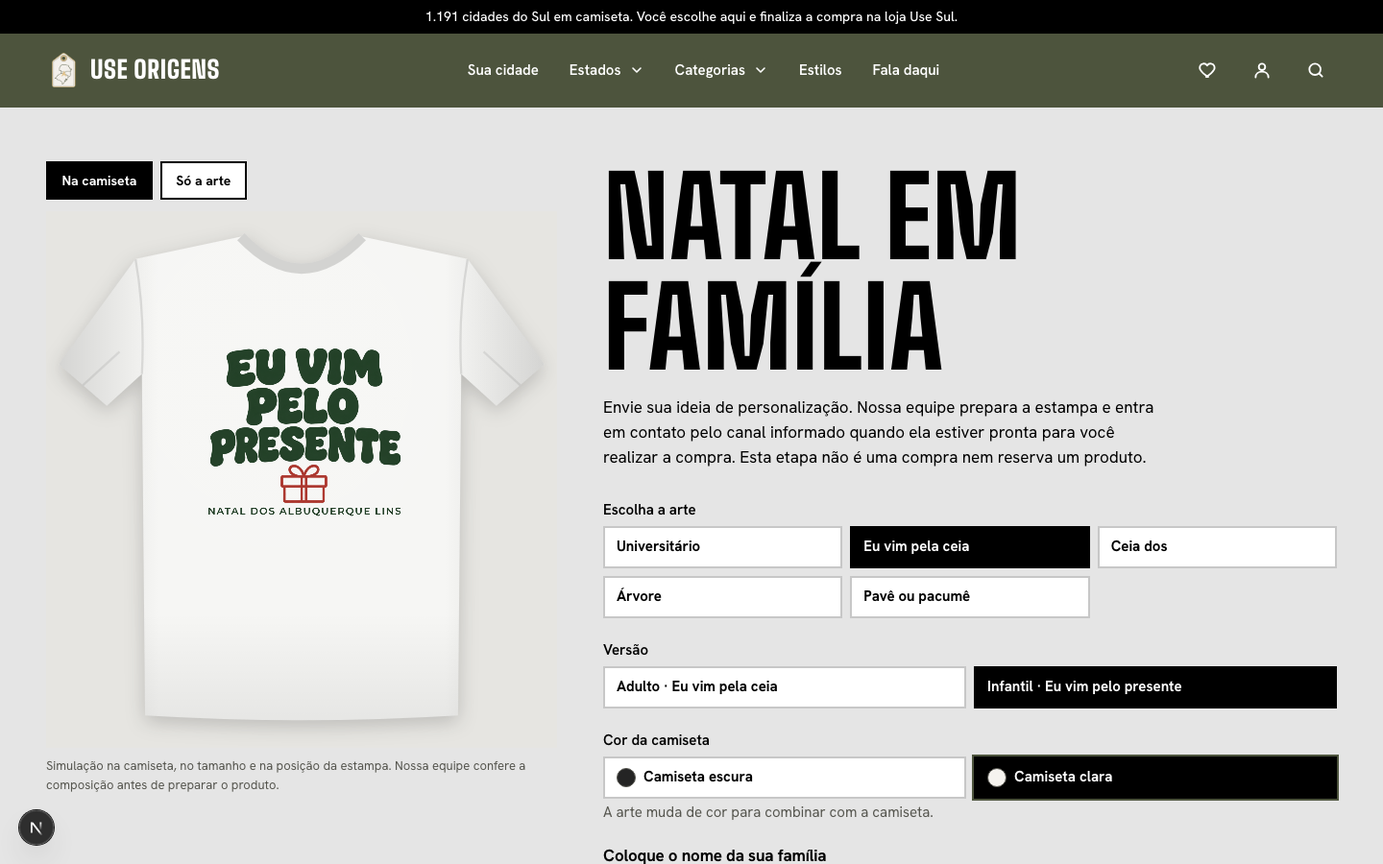
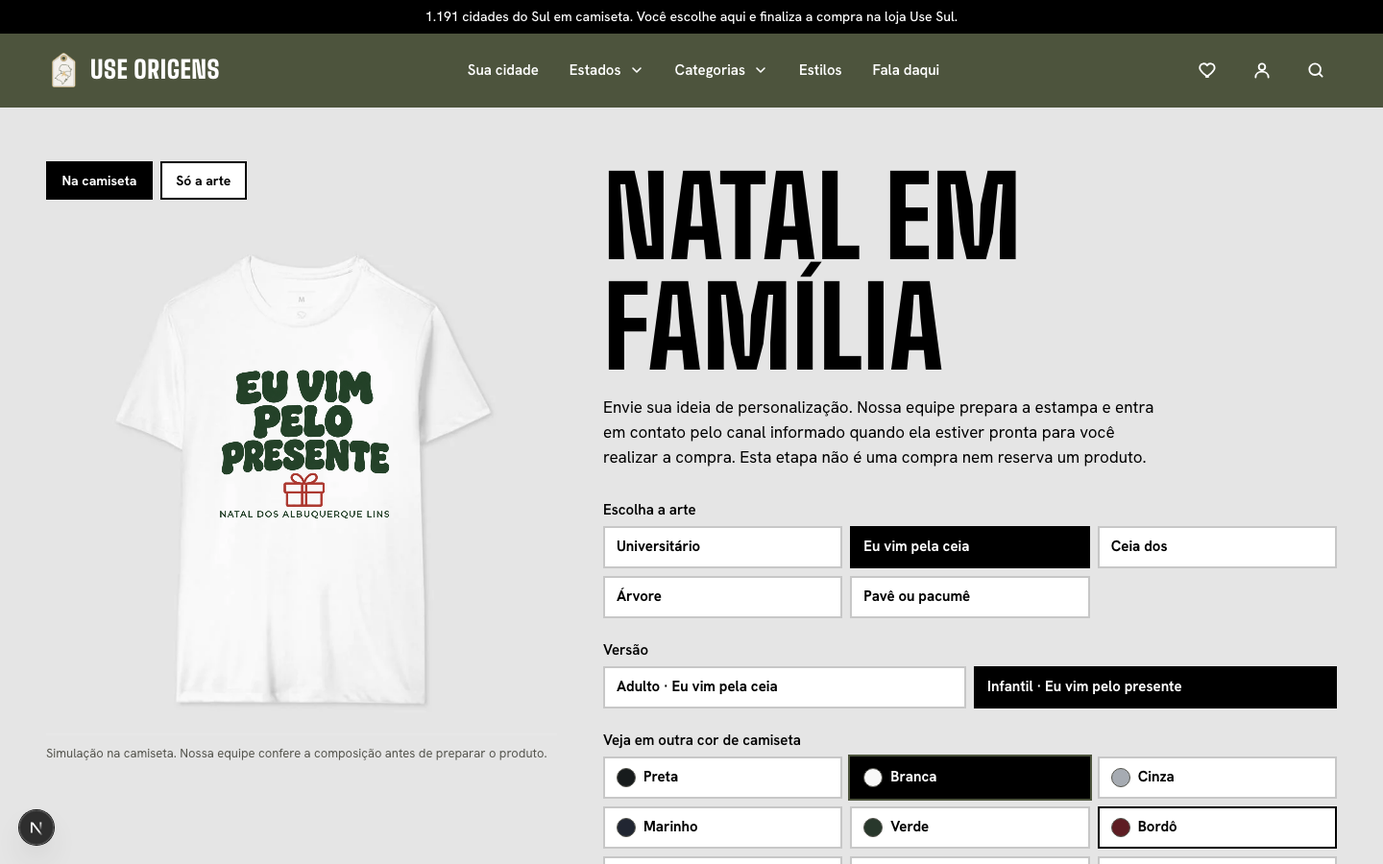
feat(personalizacao): prévia sobre foto de camiseta e cor só para visualizar
- Prévia "Na camiseta" usa fotos de camiseta lisa (9 cores, enquadramento
  dos mockups da INK), com a área de estampa medida num mockup da INK.
- "Veja em outra cor de camiseta": a cor é só para visualizar; branca e
  cinza mostram a base de camiseta clara (arte escura), as demais a outra.
- A solicitação registra só a arte e a versão, sem a cor.

diff --git a/src/components/customization/CustomizerForm.tsx b/src/components/customization/CustomizerForm.tsx
@@ -6,7 +6,8 @@ import { CONTACT_CONFIRM_TEXT, CONTACT_KEYS, CONTACT_NOTICE, validateContact } f
 import type { Customizer } from "@/lib/site-config/schema";
 import type { SubmitResult } from "@/app/[region]/personalizar/actions";
 import { artworkFields, composeArtwork, fieldEdits, initialArtworkEdits, initialFieldValues, validateArtworkInput, type ArtworkEdit } from "@/lib/customization/artwork";
-import { choiceLabel, choiceOf, studioTemplateIds, type ArtPick } from "@/lib/customization/studio-arts";
+import { choiceLabel, choiceOf, offersChoice } from "@/lib/customization/studio-arts";
+import { SHIRT_COLORS, shirtColor } from "@/lib/customization/shirts";
 import type { PrintProject } from "@/lib/print-studio/model";
 import { ArtworkEditor, ArtworkFields } from "./ArtworkEditor";
 import { ArtworkPreview, type PreviewView } from "./ArtworkPreview";
@@ -27,7 +28,6 @@ function liveSummary(model: Customizer, v: Values): SummaryLine[] {
   return out;
 }
 
-const SHIRT = { dark: "#242424", light: "#f5f3ef" };
 type ChoiceOption = { key: number; label: string; swatch?: string };
 /** Radio cards: the picked one is filled. Used for the art, its version and the shirt colour. */
 function ChoiceGroup({ legend, name, options, value, onChange, columns = "grid-cols-2 sm:grid-cols-3", help }: { legend: string; name: string; options: ChoiceOption[]; value: number; onChange: (key: number) => void; columns?: string; help?: string }) {
@@ -68,8 +68,10 @@ export function CustomizerForm({
   const uid = useId();
   const arts = useMemo(() => (firstBase && model.studioArts?.length ? model.studioArts : []), [firstBase, model.studioArts]);
   const studio = arts.length > 0;
-  const [pick, setPick] = useState<ArtPick>({ art: 0, version: 0, light: false });
-  const choice = useMemo(() => (studio ? choiceOf(arts, pick) : null), [studio, arts, pick]);
+  const [pick, setPick] = useState({ art: 0, version: 0 });
+  // The shirt colour is only for viewing; it decides which version of the art is drawn (light shirts get the "camiseta clara" base).
+  const [shirt, setShirt] = useState(SHIRT_COLORS[0].id);
+  const choice = useMemo(() => (studio ? choiceOf(arts, { ...pick, light: shirtColor(shirt).light }) : null), [studio, arts, pick, shirt]);
   const templateId = choice?.templateId;
   const [bases, setBases] = useState<Record<string, PrintProject>>(() => (firstBase && arts[0] ? { [arts[0].versions[0].templateId]: firstBase } : {}));
   const [baseError, setBaseError] = useState("");
@@ -94,14 +96,15 @@ export function CustomizerForm({
   const fieldMode = Boolean(firstBase && studio && artworkFields(firstBase).length);
   const artworkInput = fieldMode ? { fields: fieldValues } : { layers: artworkEdits };
   const artworkProject = useMemo(() => artworkBase ? composeArtwork(artworkBase, fieldMode ? fieldEdits(artworkBase, fieldValues) : artworkEdits) : null, [artworkBase, fieldMode, fieldValues, artworkEdits]);
-  const choose = (next: ArtPick) => { setPick(next); setBaseError(""); };
+  const choose = (next: { art: number; version: number }) => { setPick(next); setBaseError(""); };
+  const chooseShirt = (id: string) => { setShirt(id); setBaseError(""); };
   const [previewView, setPreviewView] = useState<PreviewView>("shirt");
   // Art, version and shirt colour. On a phone they sit right under the preview, so each tap shows its effect; on a wide screen, in the form.
   const pickers = (where: string) => choice && (
     <>
       {arts.length > 1 && <ChoiceGroup legend="Escolha a arte" name={`${uid}-${where}-arte`} options={arts.map((a, i) => ({ key: i, label: a.label }))} value={pick.art} onChange={(art) => choose({ ...pick, art, version: 0 })} />}
       {choice.art.versions.length > 1 && <ChoiceGroup legend="Versão" name={`${uid}-${where}-versao`} options={choice.art.versions.map((v, i) => ({ key: i, label: v.label ?? `Versão ${i + 1}` }))} value={pick.version} onChange={(version) => choose({ ...pick, version })} columns="grid-cols-1 sm:grid-cols-2" />}
-      {choice.version.lightTemplateId && <ChoiceGroup legend="Cor da camiseta" name={`${uid}-${where}-camiseta`} options={[{ key: 0, label: "Camiseta escura", swatch: SHIRT.dark }, { key: 1, label: "Camiseta clara", swatch: SHIRT.light }]} value={pick.light ? 1 : 0} onChange={(key) => choose({ ...pick, light: key === 1 })} columns="grid-cols-2" help="A arte muda de cor para combinar com a camiseta." />}
+      <ChoiceGroup legend="Veja em outra cor de camiseta" name={`${uid}-${where}-camiseta`} options={SHIRT_COLORS.map((c, i) => ({ key: i, label: c.label, swatch: c.swatch }))} value={SHIRT_COLORS.findIndex((c) => c.id === shirt)} onChange={(i) => chooseShirt(SHIRT_COLORS[i].id)} columns="grid-cols-3" help={choice.version.lightTemplateId ? "Só para visualizar: a cor você escolhe na compra. Nas camisetas branca e cinza a estampa vem na versão escura; nas demais, na versão clara." : "Só para visualizar: a cor você escolhe na compra."} />
     </>
   );
   const [contact, setContact] = useState<ContactValues>({ name: "", whatsapp: "", email: "", confirm: false });
@@ -115,7 +118,7 @@ export function CustomizerForm({
   const g = studio ? undefined : model.lineGroup;
   const summary = useMemo(() => {
     if (!studio || !choice) return liveSummary(model, values);
-    const picked = studioTemplateIds(model).length > 1 ? [{ label: "Arte escolhida", value: choiceLabel(choice) }] : [];
+    const picked = offersChoice(model) ? [{ label: "Arte escolhida", value: choiceLabel(choice) }] : [];
     if (!artworkBase) return picked;
     const checked = validateArtworkInput(artworkBase, choice.templateId, fieldMode ? { fields: fieldValues } : { layers: artworkEdits });
     if (checked.ok && checked.artwork.fields) return [...picked, ...checked.artwork.fields.map((f) => ({ label: f.label, value: f.value })), ...checked.artwork.layers.map((l) => ({ label: "Texto na arte", value: l.text }))];
@@ -195,8 +198,8 @@ export function CustomizerForm({
       <div className="grid gap-8 lg:grid-cols-12 lg:gap-12">
         <div className="lg:col-span-5">
           <div className="lg:sticky lg:top-24">
-            {studio ? (artworkProject ? <ArtworkPreview key={templateId} project={artworkProject} onReady={setArtworkReady} view={previewView} onViewChange={setPreviewView} shirt={choice?.version.lightTemplateId ? (choice.light ? SHIRT.light : SHIRT.dark) : undefined} /> : (
-              <div className={`mt-[52px] flex w-full items-center justify-center bg-[#242424] p-6 text-center text-white ${previewView === "shirt" ? "aspect-[80/84]" : "aspect-[4270/4900]"}`} role="status" aria-live="polite">{baseError || "Carregando a arte…"}</div>
+            {studio ? (artworkProject ? <ArtworkPreview key={templateId} project={artworkProject} onReady={setArtworkReady} view={previewView} onViewChange={setPreviewView} shirt={shirt} /> : (
+              <div className={`mt-[52px] flex w-full items-center justify-center bg-[#242424] p-6 text-center text-white ${previewView === "shirt" ? "aspect-[800/820]" : "aspect-[4270/4900]"}`} role="status" aria-live="polite">{baseError || "Carregando a arte…"}</div>
             )) : <>
             {/* eslint-disable-next-line @next/next/no-img-element -- a CMS upload served pre-sized from the media origin */}
             <img

diff --git a/src/components/customization/ArtworkPreview.tsx b/src/components/customization/ArtworkPreview.tsx
@@ -1,49 +1,16 @@
 "use client";
 
-import { useEffect, useId, useRef, useState } from "react";
+import { useEffect, useRef, useState } from "react";
 import type { PrintProject } from "@/lib/print-studio/model";
 import { loadResources, paintProject } from "@/lib/print-studio/renderer";
+import { SHIRT_COLORS, shirtColor, shirtPhoto } from "@/lib/customization/shirts";
 import styles from "./ArtworkEditor.module.css";
 
 export type PreviewView = "shirt" | "art";
-const SHIRT_FILL: Record<string, string> = { "#242424": "#1c1c1e", "#f5f3ef": "#f6f6f4", "#707070": "#8a8a8a" };
 
 /**
- * A flat front view of a shirt (size M), drawn in centimetres: the 36 × 41 cm print area of INK sits 11 cm below the front of the collar,
- * so the art keeps its real size and place (a chest logo stays on the chest). The art canvas is laid over it by the stylesheet.
- */
-function Shirt({ fill }: { fill: string }) {
-  const id = useId().replace(/:/g, "");
-  const body = "M30.5 4 L14 7.5 L2 24 L9.5 30.5 L15 25.5 L15.5 79 Q40 80.5 64.5 79 L65 25.5 L70.5 30.5 L78 24 L66 7.5 L49.5 4 Q40 14 30.5 4 Z";
-  return (
-    <svg className={styles.shirt} viewBox="0 0 80 84" aria-hidden="true" focusable="false">
-      <defs>
-        <clipPath id={`${id}-clip`}><path d={body} /></clipPath>
-        <linearGradient id={`${id}-sides`} x1="0" x2="1" y1="0" y2="0">
-          <stop offset="0" stopColor="#000" stopOpacity=".16" /><stop offset=".22" stopColor="#000" stopOpacity="0" />
-          <stop offset=".78" stopColor="#000" stopOpacity="0" /><stop offset="1" stopColor="#000" stopOpacity=".16" />
-        </linearGradient>
-        <radialGradient id={`${id}-light`} cx=".45" cy=".3" r=".6"><stop offset="0" stopColor="#fff" stopOpacity=".1" /><stop offset="1" stopColor="#fff" stopOpacity="0" /></radialGradient>
-        <linearGradient id={`${id}-hem`} x1="0" x2="0" y1="0" y2="1"><stop offset=".75" stopColor="#000" stopOpacity="0" /><stop offset="1" stopColor="#000" stopOpacity=".08" /></linearGradient>
-      </defs>
-      <path d={body} fill={fill} />
-      <g clipPath={`url(#${id}-clip)`}>
-        <rect width="80" height="84" fill={`url(#${id}-sides)`} />
-        <rect width="80" height="84" fill={`url(#${id}-light)`} />
-        <rect width="80" height="84" fill={`url(#${id}-hem)`} />
-        <path d="M30.5 4 Q40 6.5 49.5 4 Q40 14 30.5 4 Z" fill="#000" fillOpacity=".22" />
-        <path d="M14 7.5 Q15.5 16 15 25.5 M66 7.5 Q64.5 16 65 25.5" fill="none" stroke="#000" strokeOpacity=".1" strokeWidth=".35" />
-        <path d="M5.5 27.5 L11.5 22 M74.5 27.5 L68.5 22" fill="none" stroke="#000" strokeOpacity=".08" strokeWidth=".35" />
-      </g>
-      <path d="M30.5 4 Q40 14 49.5 4" fill="none" stroke={fill} strokeWidth="1.6" />
-      <path d="M30.5 4 Q40 14 49.5 4" fill="none" stroke="#000" strokeOpacity=".14" strokeWidth="1.6" />
-    </svg>
-  );
-}
-
-/**
- * The art as the customer will get it: on a shirt by default, or alone and larger. `shirt`: the shirt colour the customer picked; it sets the
- * colour and replaces the viewing choice. `view`/`onViewChange` let the page keep the view when the preview is remounted for another art.
+ * The art as the customer will get it: on a shirt photo by default, or alone and larger. `shirt`: the shirt colour (`SHIRT_COLORS` id) the page
+ * picked; without it, the preview offers its own colour choice, starting from one that contrasts with the art. `view`/`onViewChange` let the page keep the view when the preview is remounted for another art.
  */
 export function ArtworkPreview({ project, onReady, shirt, view: controlled, onViewChange, initialView = "shirt" }: {
   project: PrintProject;
@@ -61,12 +28,12 @@ export function ArtworkPreview({ project, onReady, shirt, view: controlled, onVi
   const setView = (next: PreviewView) => { setOwn(next); onViewChange?.(next); };
   const [viewing, setBackground] = useState(() => {
     const text = project.layers.find((l) => l.kind === "text" && l.visible);
-    if (text?.kind !== "text") return "#242424";
+    if (text?.kind !== "text") return "preta";
     const [r, g, b] = [1, 3, 5].map((i) => parseInt(text.color.slice(i, i + 2), 16));
-    return 0.2126 * r + 0.7152 * g + 0.0722 * b < 140 ? "#f5f3ef" : "#242424";
+    return 0.2126 * r + 0.7152 * g + 0.0722 * b < 140 ? "branca" : "preta";
   });
 
-  const background = shirt ?? viewing;
+  const color = shirtColor(shirt ?? viewing);
 
   useEffect(() => {
     let active = true;
@@ -92,16 +59,17 @@ export function ArtworkPreview({ project, onReady, shirt, view: controlled, onVi
         <button type="button" aria-pressed={onShirt} onClick={() => setView("shirt")}>Na camiseta</button>
         <button type="button" aria-pressed={!onShirt} onClick={() => setView("art")}>Só a arte</button>
       </div>
-      <div className={onShirt ? styles.stage : styles.canvasWrap} style={onShirt ? undefined : { backgroundColor: background }} aria-busy={painted !== project && !error}>
-        {onShirt && <Shirt fill={SHIRT_FILL[background] ?? background} />}
+      <div className={onShirt ? styles.stage : styles.canvasWrap} style={onShirt ? undefined : { backgroundColor: color.swatch }} aria-busy={painted !== project && !error}>
+        {/* eslint-disable-next-line @next/next/no-img-element -- a small static photo laid under the canvas, not a content image */}
+        {onShirt && <img className={styles.shirt} src={shirtPhoto(color.id)} alt="" width={800} height={820} />}
         <canvas ref={canvas} className={onShirt ? styles.printArea : styles.canvas} role="img" aria-label="Composição com os textos, fontes e cores escolhidos. O resumo da personalização apresenta os mesmos textos." />
       </div>
       {error && <p className={styles.error} role="alert">{error}</p>}
-      <figcaption className={styles.caption}>{onShirt ? "Simulação na camiseta, no tamanho e na posição da estampa. " : ""}Nossa equipe confere a composição antes de preparar o produto.</figcaption>
+      <figcaption className={styles.caption}>{onShirt ? "Simulação na camiseta. " : ""}Nossa equipe confere a composição antes de preparar o produto.</figcaption>
       {!shirt && <>
-        <label className={styles.background}>{onShirt ? "Cor da camiseta na prévia" : "Fundo para visualizar"}
-          <select value={background} onChange={(e) => setBackground(e.target.value)}>
-            <option value="#242424">Escuro</option><option value="#f5f3ef">Claro</option><option value="#707070">Cinza</option>
+        <label className={styles.background}>Cor da camiseta na prévia
+          <select value={color.id} onChange={(e) => setBackground(e.target.value)}>
+            {SHIRT_COLORS.map((c) => <option key={c.id} value={c.id}>{c.label}</option>)}
           </select>
         </label>
         <p className={styles.caption}>A cor serve apenas para visualizar a arte.</p>

diff --git a/src/app/admin/(panel)/personalizacao/[id]/page.tsx b/src/app/admin/(panel)/personalizacao/[id]/page.tsx
@@ -122,7 +122,7 @@ export default async function CustomizerEditor({ params, searchParams }: { param
             <fieldset className="space-y-4">
               <legend className="a-h2 mb-3">Editor de arte para o cliente</legend>
               <StudioArtsEditor initial={model.studioArts ?? []} templates={templates.map((t) => ({ id: t.id, name: `${t.name} · ${when(t.createdAt)}` }))} max={MAX_STUDIO_ARTS} maxVersions={MAX_ART_VERSIONS} disabled={templateError} />
-              <p className="a-muted text-[0.875rem]">Sem artes, a página usa o formulário de textos. Com mais de uma arte, o cliente escolhe qual quer personalizar; com mais de uma versão (por exemplo, Adulto e Infantil), escolhe a versão; e, quando a versão tem a base para camiseta clara, escolhe a cor da camiseta. A primeira arte aparece ao abrir a página. Todas as bases precisam pedir os mesmos campos (por exemplo, só o sobrenome). A solicitação registra a arte escolhida.</p>
+              <p className="a-muted text-[0.875rem]">Sem artes, a página usa o formulário de textos. Com mais de uma arte, o cliente escolhe qual quer personalizar; com mais de uma versão (por exemplo, Adulto e Infantil), escolhe a versão. A prévia mostra a arte numa camiseta, e o cliente pode trocar a cor da camiseta só para ver como fica: nas camisetas branca e cinza aparece a base “branca e cinza” (arte escura), nas demais a outra base. A primeira arte aparece ao abrir a página, numa camiseta preta. Todas as bases precisam pedir os mesmos campos (por exemplo, só o sobrenome). A solicitação registra a arte escolhida.</p>
               <p className="a-muted text-[0.875rem]">Numa base sem campo, o cliente edita os textos visíveis, a fonte e a cor, com prévia ao vivo. A posição dos elementos e as logos seguem a base. Os campos e o grupo de linhas abaixo ficam substituídos pelos textos da arte.</p>
               <p className="a-muted text-[0.875rem]">Prepare a composição em <Link className="a-link" href="/admin/estampas">Estúdio de estampas</Link> e use <strong>Salvar como modelo</strong>. As fontes incorporadas à base e as fontes padrão ficam disponíveis para o cliente. Salve o rascunho para testar na prévia ao lado; publique para disponibilizar na loja.</p>
               {templateError && <p className="a-flash err">Não foi possível carregar as bases. Recarregue a página para trocar as artes; as atuais serão preservadas.</p>}

diff --git a/src/lib/customization/studio-arts.ts b/src/lib/customization/studio-arts.ts
@@ -1,6 +1,6 @@
 import type { Customizer, StudioArt, StudioArtVersion } from "../site-config/schema";
 
-/** What the customer picked on a studio-based page: an art, one of its versions and, when the version has both, the shirt colour. */
+/** What the customer picked on a studio-based page: an art, one of its versions and whether the previewed shirt is light (it then gets the light-shirt base). */
 export type ArtPick = { art: number; version: number; light: boolean };
 export type ArtChoice = { art: StudioArt; version: StudioArtVersion; light: boolean; templateId: string };
 
@@ -26,11 +26,10 @@ export function choiceOfTemplate(model: Pick<Customizer, "studioArts">, template
   return null;
 }
 
-/** "Eu vim pela ceia · Infantil · Camiseta clara": only the choices the page actually offered. */
+/** True when the page lets the customer pick between arts or versions (the shirt colour is only for viewing and is not part of the choice). */
+export const offersChoice = (model: Pick<Customizer, "studioArts">): boolean => (model.studioArts ?? []).flatMap((a) => a.versions).length > 1;
+
+/** "Eu vim pela ceia · Infantil": the art and, when it has several, the version. The shirt colour is left out: each colour gets its matching art. */
 export function choiceLabel(choice: ArtChoice): string {
-  return [
-    choice.art.label,
-    choice.art.versions.length > 1 ? choice.version.label : undefined,
-    choice.version.lightTemplateId ? (choice.light ? "Camiseta clara" : "Camiseta escura") : undefined,
-  ].filter(Boolean).join(" · ");
+  return [choice.art.label, choice.art.versions.length > 1 ? choice.version.label : undefined].filter(Boolean).join(" · ");
 }

diff --git a/tests/unit/customization-artwork-action.test.ts b/tests/unit/customization-artwork-action.test.ts
@@ -59,7 +59,7 @@ describe("envio público da arte para a fila existente", () => {
     state.model = { ...single, studioArts: [{ label: "Feliz tudo", versions: [{ templateId, lightTemplateId: lightId }] }, { label: "Outra", versions: [{ label: "Adulto", templateId: "1792427199787-94f180a0-474a-4a75-9fae-1fbdd72f2aaa" }, { label: "Infantil", templateId: "1792427199788-94f180a0-474a-4a75-9fae-1fbdd72f2aab" }] }] };
     try {
       const result = await submitCustomizationAction({ region: "sul", slug: "sua-arte", idempotencyKey: "light-shirt-artwork-key", contact, artwork: { templateId: lightId, layers: initialArtworkEdits(state.base!) } });
-      expect(result).toMatchObject({ ok: true, summary: expect.arrayContaining([{ label: "Arte escolhida", value: "Feliz tudo · Camiseta clara" }, { label: "Base da arte", value: "Feliz tudo · camiseta clara" }]) });
+      expect(result).toMatchObject({ ok: true, summary: expect.arrayContaining([{ label: "Arte escolhida", value: "Feliz tudo" }, { label: "Base da arte", value: "Feliz tudo · camiseta clara" }]) });
       const kids = await submitCustomizationAction({ region: "sul", slug: "sua-arte", idempotencyKey: "kids-version-artwork-key", contact, artwork: { templateId: "1792427199788-94f180a0-474a-4a75-9fae-1fbdd72f2aab", layers: initialArtworkEdits(state.base!) } });
       expect(kids).toMatchObject({ ok: true, summary: expect.arrayContaining([{ label: "Arte escolhida", value: "Outra · Infantil" }]) });
       // Only the model's own bases are served to the page, never another saved template.

diff --git a/src/app/[region]/personalizar/actions.ts b/src/app/[region]/personalizar/actions.ts
@@ -10,7 +10,7 @@ import { publishedFor } from "@/lib/pages/public";
 import { liveCustomizer } from "@/lib/site-config/pages";
 import { validateArtworkInput } from "@/lib/customization/artwork";
 import { loadArtworkBase } from "@/lib/customization/artwork-server";
-import { choiceLabel, choiceOfTemplate, studioTemplateIds } from "@/lib/customization/studio-arts";
+import { choiceLabel, choiceOfTemplate, offersChoice, studioTemplateIds } from "@/lib/customization/studio-arts";
 import type { PrintProject } from "@/lib/print-studio/model";
 
 export type SubmitResult =
@@ -45,7 +45,7 @@ export async function submitCustomizationAction(input: { region: string; slug: s
     if (!base) return fail("Esta base não está disponível agora. Tente novamente mais tarde.");
     const artwork = validateArtworkInput(base, choice.templateId, input.artwork);
     if (!artwork.ok) return fail("Confira os textos, fontes e cores da arte.", artwork.errors);
-    checked.values.artwork = { ...artwork.artwork, ...(studioTemplateIds(model).length > 1 ? { choice: choiceLabel(choice) } : {}) };
+    checked.values.artwork = { ...artwork.artwork, ...(offersChoice(model) ? { choice: choiceLabel(choice) } : {}) };
   } else if (input.artwork) return fail("Este modelo não permite edição da arte. Recarregue a página.");
   const token = tokenFor(secret, found.region, input.idempotencyKey);
   const replaces = typeof input.replaces === "string" && TOKEN_SHAPE.test(input.replaces) ? hashToken(input.replaces) : undefined;

diff --git a/src/components/admin/StudioArtsEditor.tsx b/src/components/admin/StudioArtsEditor.tsx
@@ -59,8 +59,8 @@ export function StudioArtsEditor({ initial, templates, max, maxVersions, disable
                   {r.versions.length > 1 && <button type="button" className="a-btn sm danger" onClick={() => setArt(i, { versions: r.versions.filter((_, k) => k !== j) })} disabled={disabled}>Remover versão</button>}
                 </div>
                 <div className="mt-2 grid gap-3 md:grid-cols-2">
-                  <div><label className="a-label" htmlFor={`art-${i}-v-${j}-dark`}>Base · camiseta escura</label>{select(`art-${i}-v-${j}-dark`, v.templateId, (value) => setVersion(i, j, { templateId: value }), "Escolha a base")}</div>
-                  <div><label className="a-label" htmlFor={`art-${i}-v-${j}-light`}>Base · camiseta clara (opcional)</label>{select(`art-${i}-v-${j}-light`, v.lightTemplateId, (value) => setVersion(i, j, { lightTemplateId: value }), "Sem versão clara")}</div>
+                  <div><label className="a-label" htmlFor={`art-${i}-v-${j}-dark`}>Base · camisetas escuras e coloridas</label>{select(`art-${i}-v-${j}-dark`, v.templateId, (value) => setVersion(i, j, { templateId: value }), "Escolha a base")}</div>
+                  <div><label className="a-label" htmlFor={`art-${i}-v-${j}-light`}>Base · camisetas branca e cinza (opcional)</label>{select(`art-${i}-v-${j}-light`, v.lightTemplateId, (value) => setVersion(i, j, { lightTemplateId: value }), "Usar a mesma base")}</div>
                 </div>
               </div>
             ))}

diff --git a/src/components/customization/ArtworkEditor.module.css b/src/components/customization/ArtworkEditor.module.css
@@ -24,7 +24,8 @@
 .views button { min-height: 40px; padding: .4rem .9rem; border: 2px solid var(--color-ink, #171717); background: white; color: var(--color-ink, #171717); font: inherit; font-size: .875rem; font-weight: 700; cursor: pointer; }
 .views button[aria-pressed="true"] { background: var(--color-ink, #171717); color: white; }
 .views button:focus-visible { outline: 2px solid var(--color-region-primary, #316444); outline-offset: 3px; }
-/* Shirt view: the SVG is drawn in cm (80 × 84); the print area is 36 cm wide, from x = 22 and y = 20 (see Shirt in ArtworkPreview). */
-.stage { position: relative; width: 100%; aspect-ratio: 80 / 84; overflow: hidden; background: #e6e5e1; }
-.shirt { position: absolute; inset: 0; width: 100%; height: 100%; filter: drop-shadow(0 6px 10px rgba(0, 0, 0, .18)); }
-.printArea { position: absolute; left: 27.5%; top: 23.81%; width: 45%; height: auto; display: block; }
+/* Shirt view: a blank shirt photo (800 × 820, INK mockup framing); the art is laid over INK's print area, measured on an INK mockup
+   (318 px wide, centred, from y = 236). */
+.stage { position: relative; width: 100%; aspect-ratio: 800 / 820; overflow: hidden; background: #e5e5e5; }
+.shirt { position: absolute; inset: 0; width: 100%; height: 100%; display: block; }
+.printArea { position: absolute; left: 30.25%; top: 28.78%; width: 39.75%; height: auto; display: block; }

diff --git a/src/lib/customization/shirts.ts b/src/lib/customization/shirts.ts
@@ -1,0 +1,20 @@
+/**
+ * Shirt colours of the preview: a blank photo each in `public/personalizacao/camisetas/{id}.webp` (800 × 820, INK mockup framing). The colour
+ * is only for seeing the art; it picks the art version: light shirts get the dark-ink art (the "camiseta clara" base), every other one the light-ink art.
+ */
+export type ShirtColor = { id: string; label: string; swatch: string; light: boolean };
+
+export const SHIRT_COLORS: ShirtColor[] = [
+  { id: "preta", label: "Preta", swatch: "#171b1c", light: false },
+  { id: "branca", label: "Branca", swatch: "#f8f8f8", light: true },
+  { id: "cinza", label: "Cinza", swatch: "#a6abb2", light: true },
+  { id: "marinho", label: "Marinho", swatch: "#212632", light: false },
+  { id: "verde", label: "Verde", swatch: "#28382c", light: false },
+  { id: "bordeaux", label: "Bordô", swatch: "#5e1d23", light: false },
+  { id: "vermelha", label: "Vermelha", swatch: "#a5271a", light: false },
+  { id: "amarela", label: "Amarela", swatch: "#d8a800", light: false },
+  { id: "rosa", label: "Rosa", swatch: "#a47877", light: false },
+];
+
+export const shirtColor = (id: string | undefined): ShirtColor => SHIRT_COLORS.find((c) => c.id === id) ?? SHIRT_COLORS[0];
+export const shirtPhoto = (id: string) => `/personalizacao/camisetas/${shirtColor(id).id}.webp`;

diff --git a/src/lib/customization/artwork.ts b/src/lib/customization/artwork.ts
@@ -10,7 +10,7 @@ export type RequestArtwork = {
   layers: (ArtworkEdit & { name: string; fontName: string })[];
   /** Present when the base has slots: the customer's answers, from which `layers` were built. */
   fields?: { id: string; label: string; value: string }[];
-  /** On a page with several bases: the art, version and shirt colour picked ("Eu vim pela ceia · Infantil · Camiseta clara"). */
+  /** On a page with several arts or versions: the one picked ("Eu vim pela ceia · Infantil"). */
   choice?: string;
 };
 export type ArtworkField = { id: string; label: string; maxLength: number; example: string };

diff --git a/docs/personalizacao-editor.md b/docs/personalizacao-editor.md
@@ -16,15 +16,15 @@ Quando há uma arte vinculada, os controles da arte substituem os campos de text
 - Cada camada de texto visível oferece texto, fonte e cor. São permitidos até **200 caracteres por texto**, sem ultrapassar a quantidade de linhas daquele texto na base.
 - **Fonte** oferece as fontes padrão do estúdio e as fontes incorporadas à base. **Mont** aparece uma única vez; ao escolhê-la, **Variação** mostra seus cortes incorporados àquela base, como **Extraleve**, **Regular**, **Regular itálico**, **Negrito** e **Pesado**. Cada escolha usa o arquivo real do corte. O cliente não envia novos arquivos de fonte nem acessa cortes ausentes da base.
 - Posições, logos, imagens e dimensões seguem a composição original. Textos longos diminuem proporcionalmente para caber na largura disponível.
-- A prévia acompanha as escolhas. Ela abre **Na camiseta**: uma camiseta desenhada (tamanho M), com a área de estampa de 36 × 41 cm da INK 11 cm abaixo da gola, então a arte aparece no tamanho e no lugar reais (um logo de peito fica no peito). **Só a arte** mostra a arte ampliada. Quando a arte não tem versão clara e escura, a cor da camiseta (ou do fundo) na prévia serve só para conferir o contraste; não muda o produto nem compõe o PNG.
+- A prévia acompanha as escolhas. Ela abre **Na camiseta**: a arte sobre a foto de uma camiseta lisa (nove cores, em `public/personalizacao/camisetas/`; lista em `src/lib/customization/shirts.ts`, com o enquadramento 800 × 820 dos mockups da INK), na área de estampa medida num mockup da INK (`.printArea` em `ArtworkEditor.module.css`), então ela aparece no tamanho e no lugar em que a INK mostra (um logo de peito fica no peito). **Só a arte** mostra a arte ampliada. Quando a arte não tem versão clara e escura, a cor da camiseta (ou do fundo) na prévia serve só para conferir o contraste; não muda o produto nem compõe o PNG.
 
 ## Várias artes numa página
 
-Um modelo pode oferecer várias artes (até 8), e o cliente escolhe qual personalizar. Cada arte tem uma ou mais **versões** (até 3, por exemplo Adulto e Infantil, com nome obrigatório quando há mais de uma) e cada versão tem a base para **camiseta escura** e, opcional, a base para **camiseta clara**. A página mostra só os seletores que fazem sentido: **Escolha a arte** com mais de uma arte, **Versão** quando a arte tem mais de uma, e **Cor da camiseta** quando a versão tem as duas bases. No celular, os seletores ficam logo abaixo da prévia.
+Um modelo pode oferecer várias artes (até 8), e o cliente escolhe qual personalizar. Cada arte tem uma ou mais **versões** (até 3, por exemplo Adulto e Infantil, com nome obrigatório quando há mais de uma) e cada versão tem a base para **camisetas escuras e coloridas** e, opcional, a base para **camisetas branca e cinza** (a arte em tinta escura). A página mostra **Escolha a arte** com mais de uma arte e **Versão** quando a arte tem mais de uma. **Veja em outra cor de camiseta** troca a foto entre as nove cores só para visualizar (a cor o cliente escolhe na compra): nas camisetas branca e cinza aparece a base "branca e cinza", nas demais a outra. No celular, os seletores ficam logo abaixo da prévia.
 
 - Todas as bases do modelo precisam pedir os mesmos campos (por exemplo, só o sobrenome): o cliente escreve uma vez e troca de arte sem perder o que escreveu. O painel recusa o salvamento quando não pedem.
 - A página leva só a base da primeira arte (cada base carrega a arte em tamanho real, de 0,5 a 4 MB). As outras são buscadas quando o cliente as escolhe, e só as bases do próprio modelo publicado são servidas.
-- A solicitação registra a **Arte escolhida** (por exemplo, "Eu vim pela ceia · Infantil · Eu vim pelo presente · Camiseta clara") e o nome da base usada.
+- A solicitação registra a **Arte escolhida** (por exemplo, "Eu vim pela ceia · Infantil · Eu vim pelo presente"), sem a cor da camiseta, e o nome da base que estava na prévia. O produto leva as duas versões: arte escura nas camisetas branca e cinza, arte clara nas demais.
 
 O cliente informa nome, ao menos um canal de contato e a confirmação solicitada. **Salvar e enviar solicitação** guarda as escolhas na fila existente e mostra uma referência. O link **Ver minha solicitação** também apresenta a prévia da arte, além do resumo e do andamento. Não há galeria pública, upload de PNG pelo cliente nem geração de produto nessa etapa.
 
